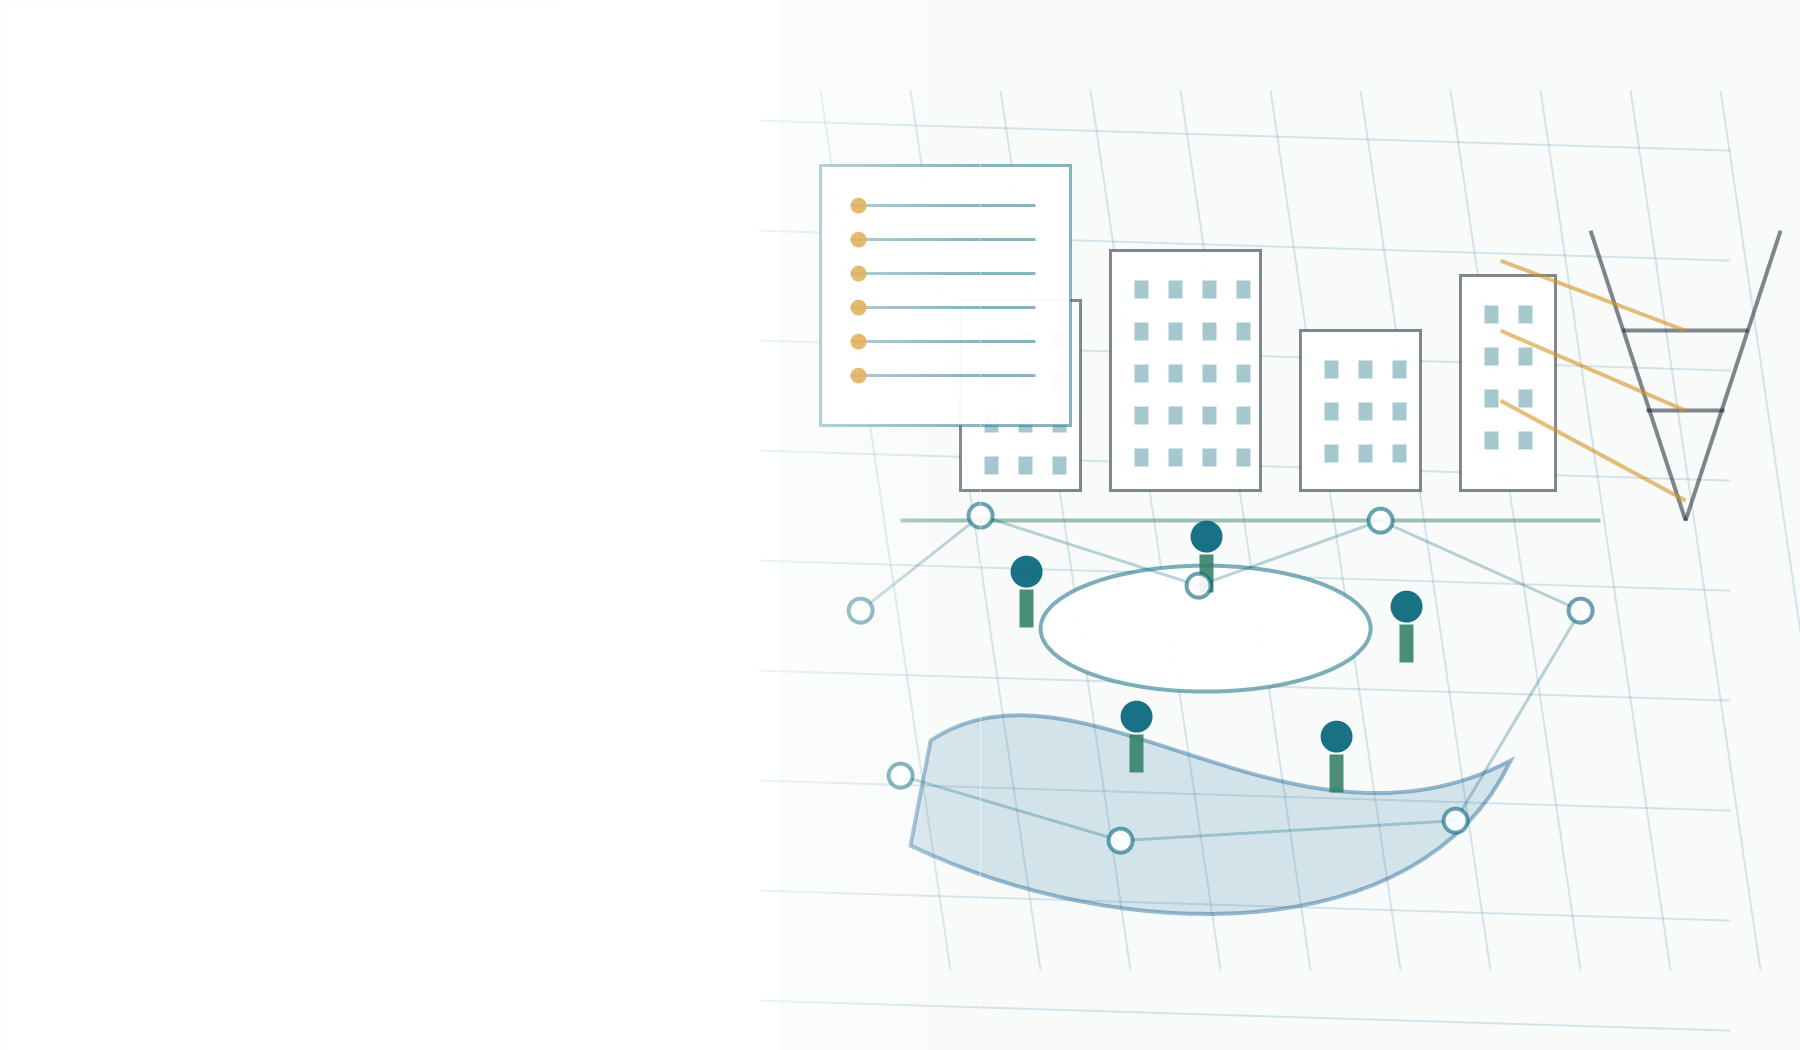
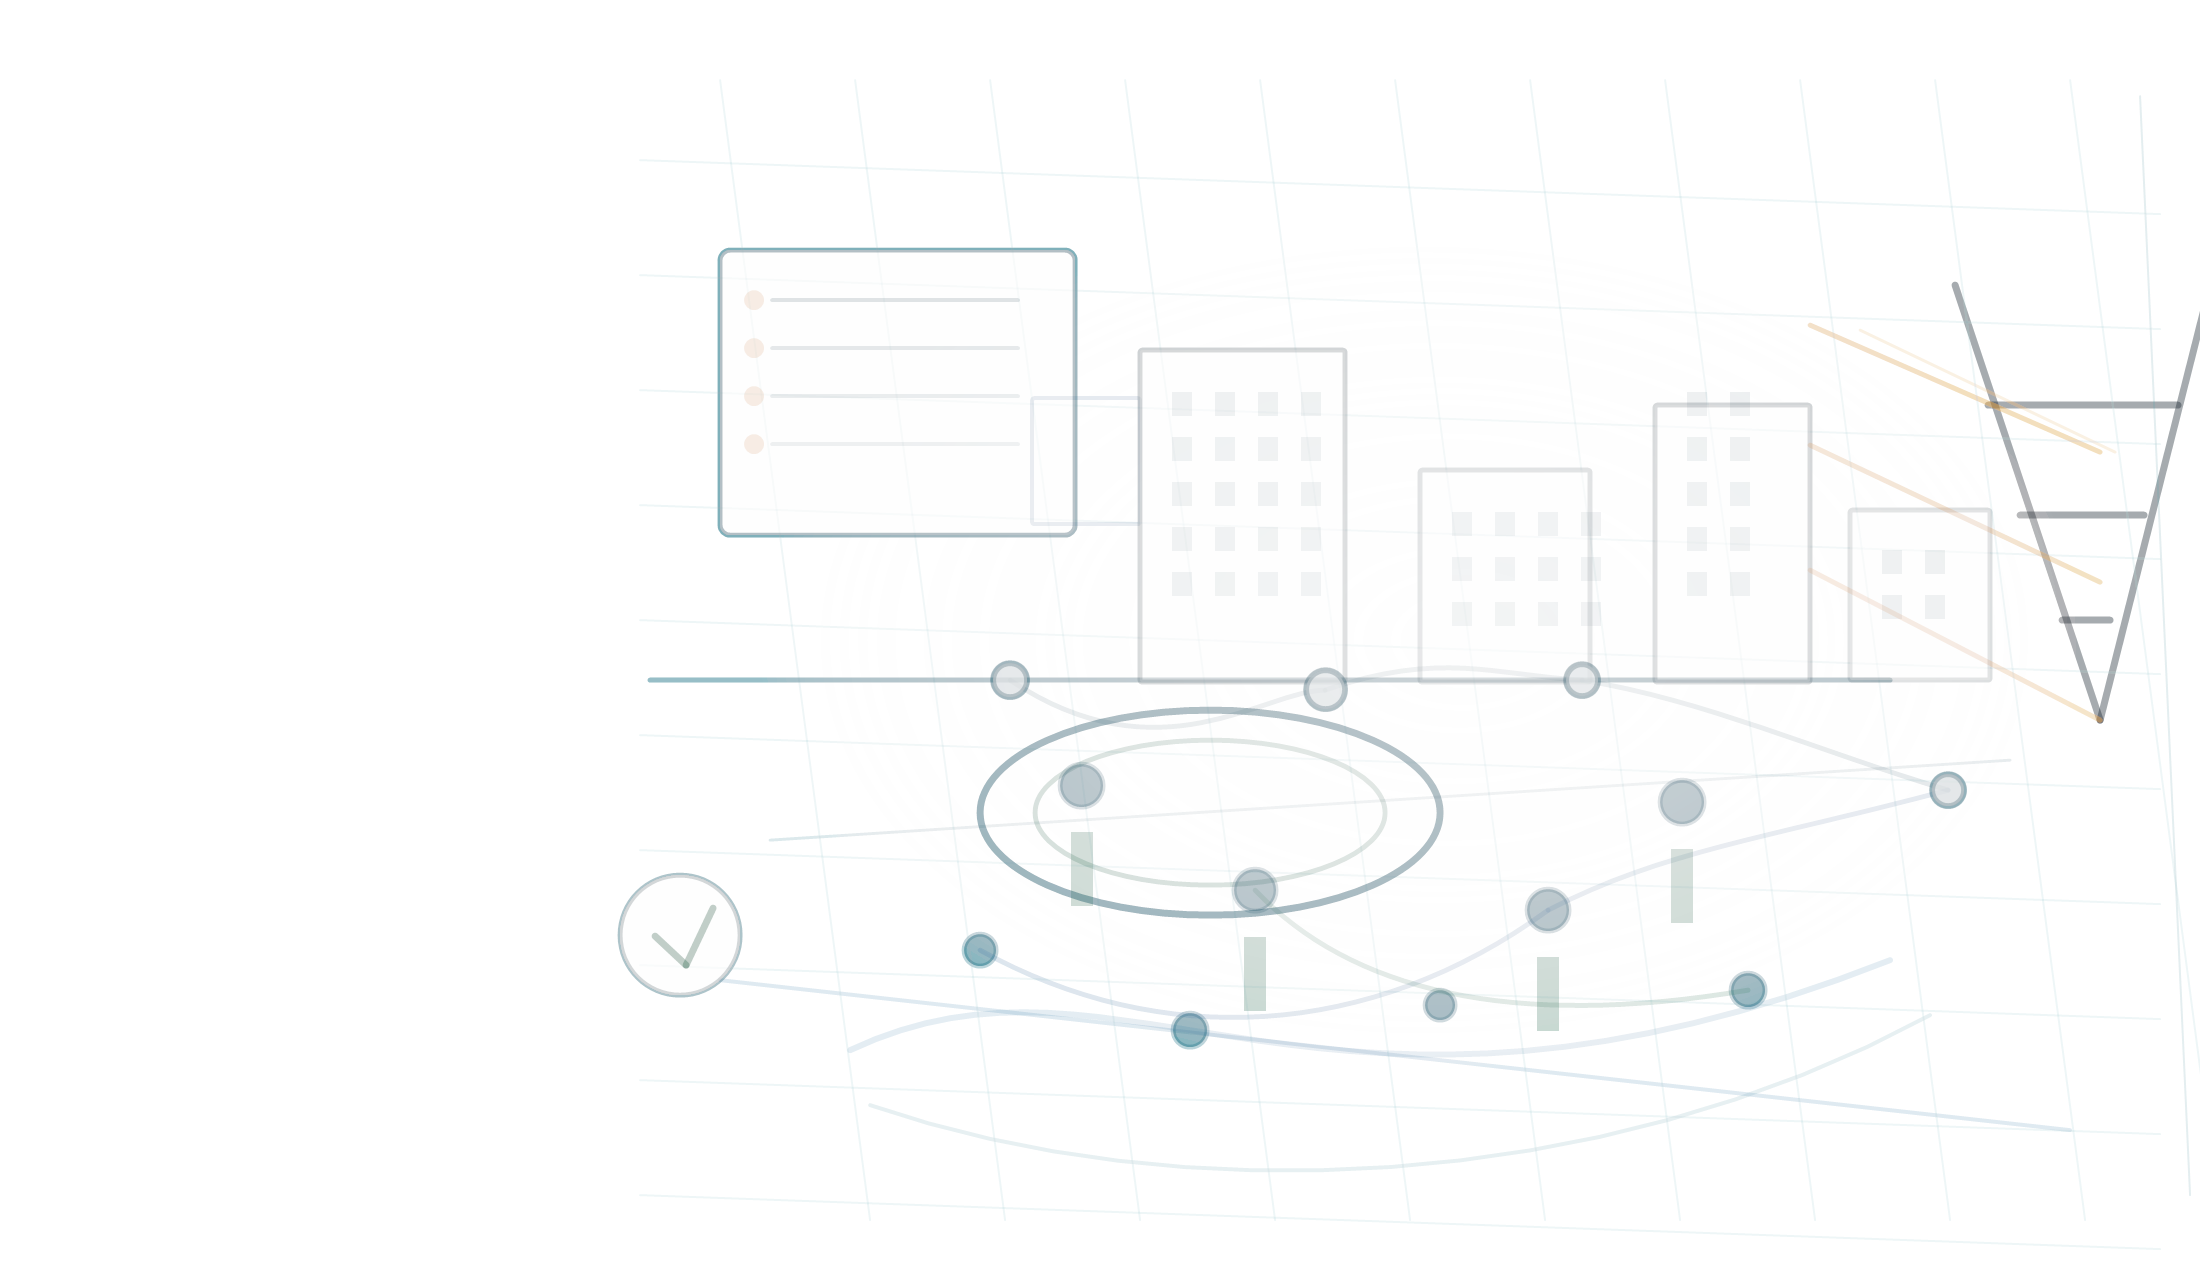
Polish public site hero graphic

diff --git a/styles.css b/styles.css
@@ -576,7 +576,7 @@ h3 {
   .hero {
     min-height: auto;
     padding: 56px 24px 72px;
-    background-position: center bottom;
+    background-position: right 30% bottom;
   }
 
   .hero-copy {
@@ -705,7 +705,7 @@ h3 {
   position: absolute;
   inset: 0;
   z-index: -2;
-  background: url("assets/common-ground-system-map.png") center right / cover no-repeat;
+  background: url("assets/common-ground-system-map.png") calc(100% + 245px) center / auto 100% no-repeat;
 }
 
 .hero::after {
@@ -714,7 +714,7 @@ h3 {
   inset: 0;
   z-index: -1;
   background:
-    linear-gradient(90deg, rgba(255,255,255,0.98) 0%, rgba(255,255,255,0.92) 40%, rgba(255,255,255,0.48) 68%, rgba(255,255,255,0.16) 100%),
+    linear-gradient(90deg, rgba(255,255,255,0.99) 0%, rgba(255,255,255,0.94) 38%, rgba(255,255,255,0.58) 56%, rgba(255,255,255,0.10) 78%, rgba(255,255,255,0.00) 100%),
     linear-gradient(0deg, rgba(0,98,119,0.10), rgba(255,255,255,0) 48%);
 }
 
@@ -853,7 +853,7 @@ h3 {
 
   .hero::after {
     background:
-      linear-gradient(90deg, rgba(255,255,255,0.98) 0%, rgba(255,255,255,0.90) 58%, rgba(255,255,255,0.30) 100%),
+      linear-gradient(90deg, rgba(255,255,255,0.99) 0%, rgba(255,255,255,0.92) 50%, rgba(255,255,255,0.26) 100%),
       linear-gradient(0deg, rgba(0,98,119,0.10), rgba(255,255,255,0) 48%);
   }
 
@@ -884,7 +884,7 @@ h3 {
   .hero::before {
     inset: auto 0 0;
     height: 230px;
-    background-position: center bottom;
+    background-position: right 30% bottom;
     border-top: 1px solid var(--line);
   }
 

diff --git a/index.html b/index.html
@@ -16,7 +16,7 @@
     />
     <meta property="og:type" content="website" />
     <meta property="og:url" content="https://common-ground-standard.org/" />
-    <link rel="stylesheet" href="styles.css" />
+    <link rel="stylesheet" href="styles.css?v=20260619-hero-polish" />
   </head>
   <body>
     <a class="skip-link" href="#content">Skip to content</a>

diff --git a/review.html b/review.html
@@ -9,7 +9,7 @@
       content="Public review brief and review guide for Common Ground Standard public-review drafts."
     />
     <link rel="canonical" href="https://common-ground-standard.org/review.html" />
-    <link rel="stylesheet" href="styles.css" />
+    <link rel="stylesheet" href="styles.css?v=20260619-hero-polish" />
   </head>
   <body>
     <a class="skip-link" href="#content">Skip to content</a>